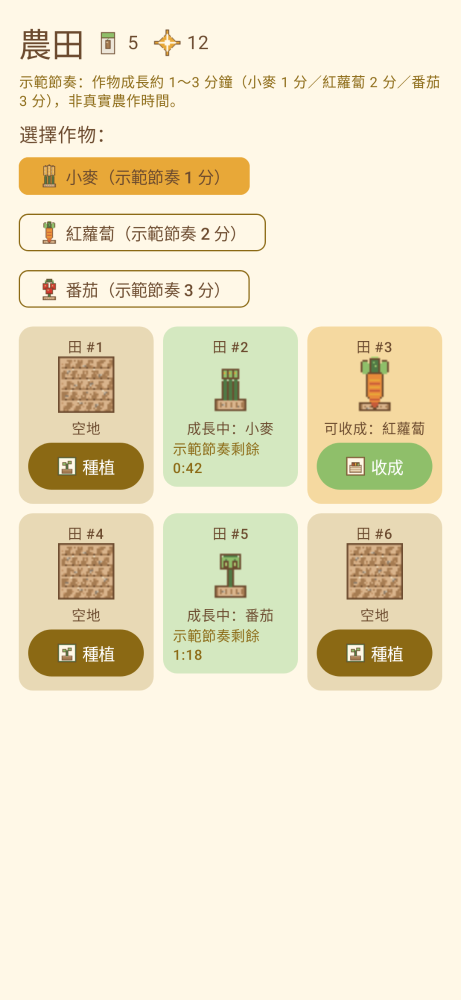
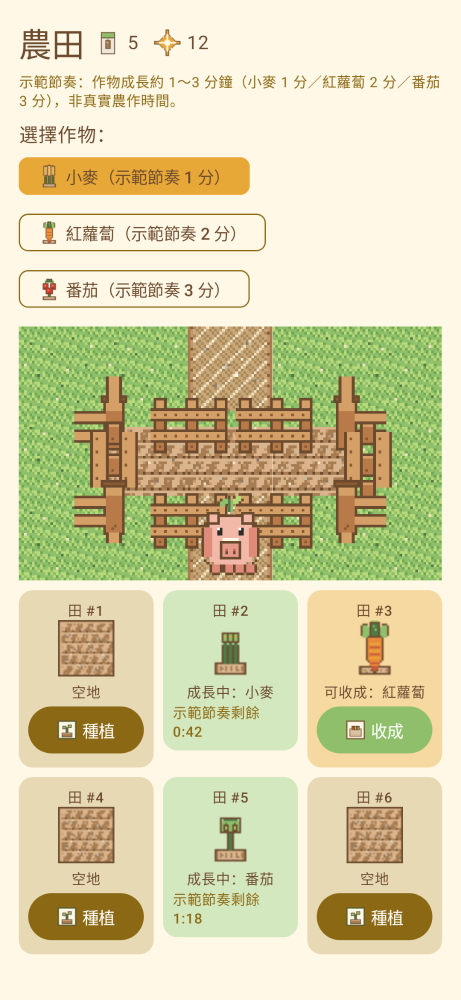
Wire phase-2 farm scene into FarmScreen with Sprout pet overlay.
Add FarmSceneLayer (Canvas tiles/fence + tap-to-happy 小芽) under crop plots; regenerate farm Paparazzi screenshot. Reward rules unchanged.

diff --git a/app/src/main/java/com/farmledger/app/ui/screens/farm/FarmScreen.kt b/app/src/main/java/com/farmledger/app/ui/screens/farm/FarmScreen.kt
@@ -121,71 +121,76 @@ fun FarmScreen(vm: AppViewModel) {
             }
         }
         Spacer(Modifier.height(8.dp))
-        LazyVerticalGrid(
-            columns = GridCells.Fixed(3),
-            modifier = Modifier.weight(1f),
-            verticalArrangement = Arrangement.spacedBy(8.dp),
-            horizontalArrangement = Arrangement.spacedBy(8.dp)
-        ) {
-            items(plots, key = { it.index }) { plot ->
-                val cardColor = when (plot.state) {
-                    PlotState.EMPTY -> Color(0xFFE8D9B5)
-                    PlotState.GROWING -> Color(0xFFD4E8C0)
-                    PlotState.READY -> Color(0xFFF5D9A0)
-                }
-                val iconRes = when (plot.state) {
-                    PlotState.EMPTY -> R.drawable.tile_soil_empty
-                    PlotState.GROWING -> plot.crop?.let { cropGrowRes(it) } ?: R.drawable.tile_soil_empty
-                    PlotState.READY -> plot.crop?.let { cropReadyRes(it) } ?: R.drawable.tile_soil_empty
-                }
-                Card(
-                    Modifier.fillMaxWidth(),
-                    colors = CardDefaults.cardColors(containerColor = cardColor)
-                ) {
-                    Column(Modifier.padding(8.dp), horizontalAlignment = Alignment.CenterHorizontally) {
-                        Text("田 #${plot.index + 1}", style = MaterialTheme.typography.labelMedium, color = FarmText)
-                        Image(
-                            painterResource(iconRes),
-                            contentDescription = plot.state.name,
-                            modifier = Modifier.size(48.dp),
-                            contentScale = ContentScale.FillBounds
-                        )
-                        Spacer(Modifier.height(4.dp))
-                        Text(
+        // Phase-2 farm scene (tiles + fence + 小芽) under the crop-plot UI block.
+        Column(Modifier.weight(1f).fillMaxWidth()) {
+            FarmSceneLayer(modifier = Modifier.fillMaxWidth(), interactive = true)
+            Spacer(Modifier.height(8.dp))
+            LazyVerticalGrid(
+                columns = GridCells.Fixed(3),
+                modifier = Modifier.weight(1f).fillMaxWidth(),
+                verticalArrangement = Arrangement.spacedBy(8.dp),
+                horizontalArrangement = Arrangement.spacedBy(8.dp)
+            ) {
+                items(plots, key = { it.index }) { plot ->
+                    val cardColor = when (plot.state) {
+                        PlotState.EMPTY -> Color(0xFFE8D9B5)
+                        PlotState.GROWING -> Color(0xFFD4E8C0)
+                        PlotState.READY -> Color(0xFFF5D9A0)
+                    }
+                    val iconRes = when (plot.state) {
+                        PlotState.EMPTY -> R.drawable.tile_soil_empty
+                        PlotState.GROWING -> plot.crop?.let { cropGrowRes(it) } ?: R.drawable.tile_soil_empty
+                        PlotState.READY -> plot.crop?.let { cropReadyRes(it) } ?: R.drawable.tile_soil_empty
+                    }
+                    Card(
+                        Modifier.fillMaxWidth(),
+                        colors = CardDefaults.cardColors(containerColor = cardColor)
+                    ) {
+                        Column(Modifier.padding(8.dp), horizontalAlignment = Alignment.CenterHorizontally) {
+                            Text("田 #${plot.index + 1}", style = MaterialTheme.typography.labelMedium, color = FarmText)
+                            Image(
+                                painterResource(iconRes),
+                                contentDescription = plot.state.name,
+                                modifier = Modifier.size(48.dp),
+                                contentScale = ContentScale.FillBounds
+                            )
+                            Spacer(Modifier.height(4.dp))
+                            Text(
+                                when (plot.state) {
+                                    PlotState.EMPTY -> "空地"
+                                    PlotState.GROWING -> "成長中：${plot.crop?.let { FarmLogic.cropZh(it) }}"
+                                    PlotState.READY -> "可收成：${plot.crop?.let { FarmLogic.cropZh(it) }}"
+                                },
+                                style = MaterialTheme.typography.bodySmall,
+                                fontWeight = FontWeight.Medium,
+                                color = FarmText
+                            )
                             when (plot.state) {
-                                PlotState.EMPTY -> "空地"
-                                PlotState.GROWING -> "成長中：${plot.crop?.let { FarmLogic.cropZh(it) }}"
-                                PlotState.READY -> "可收成：${plot.crop?.let { FarmLogic.cropZh(it) }}"
-                            },
-                            style = MaterialTheme.typography.bodySmall,
-                            fontWeight = FontWeight.Medium,
-                            color = FarmText
-                        )
-                        when (plot.state) {
-                            PlotState.EMPTY -> Button(
-                                onClick = { vm.plant(plot.index, selectedCrop) },
-                                colors = ButtonDefaults.buttonColors(containerColor = FarmSoil, contentColor = Color.White)
-                            ) {
-                                Image(painterResource(R.drawable.btn_plant), null, Modifier.size(18.dp), contentScale = ContentScale.FillBounds)
-                                Spacer(Modifier.size(4.dp))
-                                Text("種植")
-                            }
-                            PlotState.READY -> Button(
-                                onClick = { vm.harvest(plot.index) },
-                                colors = ButtonDefaults.buttonColors(containerColor = FarmGrowth, contentColor = Color.White)
-                            ) {
-                                Image(painterResource(R.drawable.btn_harvest), null, Modifier.size(18.dp), contentScale = ContentScale.FillBounds)
-                                Spacer(Modifier.size(4.dp))
-                                Text("收成")
-                            }
-                            PlotState.GROWING -> {
-                                val remainMs = ((plot.readyAtEpochMs ?: nowMs) - nowMs).coerceAtLeast(0L)
-                                Text(
-                                    "示範節奏剩餘 ${formatRemain(remainMs)}",
-                                    style = MaterialTheme.typography.bodySmall,
-                                    color = FarmSoil,
-                                    fontWeight = FontWeight.Medium
-                                )
+                                PlotState.EMPTY -> Button(
+                                    onClick = { vm.plant(plot.index, selectedCrop) },
+                                    colors = ButtonDefaults.buttonColors(containerColor = FarmSoil, contentColor = Color.White)
+                                ) {
+                                    Image(painterResource(R.drawable.btn_plant), null, Modifier.size(18.dp), contentScale = ContentScale.FillBounds)
+                                    Spacer(Modifier.size(4.dp))
+                                    Text("種植")
+                                }
+                                PlotState.READY -> Button(
+                                    onClick = { vm.harvest(plot.index) },
+                                    colors = ButtonDefaults.buttonColors(containerColor = FarmGrowth, contentColor = Color.White)
+                                ) {
+                                    Image(painterResource(R.drawable.btn_harvest), null, Modifier.size(18.dp), contentScale = ContentScale.FillBounds)
+                                    Spacer(Modifier.size(4.dp))
+                                    Text("收成")
+                                }
+                                PlotState.GROWING -> {
+                                    val remainMs = ((plot.readyAtEpochMs ?: nowMs) - nowMs).coerceAtLeast(0L)
+                                    Text(
+                                        "示範節奏剩餘 ${formatRemain(remainMs)}",
+                                        style = MaterialTheme.typography.bodySmall,
+                                        color = FarmSoil,
+                                        fontWeight = FontWeight.Medium
+                                    )
+                                }
                             }
                         }
                     }

diff --git a/app/src/main/java/com/farmledger/app/ui/screens/farm/FarmSceneLayer.kt b/app/src/main/java/com/farmledger/app/ui/screens/farm/FarmSceneLayer.kt
@@ -1,0 +1,190 @@
+package com.farmledger.app.ui.screens.farm
+
+import androidx.compose.foundation.Canvas
+import androidx.compose.foundation.Image
+import androidx.compose.foundation.clickable
+import androidx.compose.foundation.interaction.MutableInteractionSource
+import androidx.compose.foundation.layout.BoxWithConstraints
+import androidx.compose.foundation.layout.aspectRatio
+import androidx.compose.foundation.layout.fillMaxSize
+import androidx.compose.foundation.layout.fillMaxWidth
+import androidx.compose.foundation.layout.offset
+import androidx.compose.foundation.layout.size
+import androidx.compose.runtime.Composable
+import androidx.compose.runtime.LaunchedEffect
+import androidx.compose.runtime.getValue
+import androidx.compose.runtime.mutableLongStateOf
+import androidx.compose.runtime.remember
+import androidx.compose.runtime.setValue
+import androidx.compose.ui.Alignment
+import androidx.compose.ui.Modifier
+import androidx.compose.ui.graphics.FilterQuality
+import androidx.compose.ui.graphics.ImageBitmap
+import androidx.compose.ui.graphics.drawscope.DrawScope
+import androidx.compose.ui.layout.ContentScale
+import androidx.compose.ui.res.imageResource
+import androidx.compose.ui.semantics.contentDescription
+import androidx.compose.ui.semantics.semantics
+import androidx.compose.ui.unit.IntOffset
+import androidx.compose.ui.unit.IntSize
+import com.farmledger.app.R
+import kotlinx.coroutines.delay
+
+/** Logical scene size matching docs/farm_scene_preview.png (5×3 of 32px tiles). */
+private const val SceneW = 160f
+private const val SceneH = 96f
+private const val Tile = 32f
+private const val HappyMs = 1_400L
+
+/**
+ * Warm top-down farm ground + fence border + Sprout（小芽）pet overlay.
+ * Pure UI — does not touch reward / pet domain rules.
+ */
+@Composable
+fun FarmSceneLayer(
+    modifier: Modifier = Modifier,
+    interactive: Boolean = true,
+) {
+    var happyUntilMs by remember { mutableLongStateOf(0L) }
+    var nowMs by remember { mutableLongStateOf(System.currentTimeMillis()) }
+    val isHappy = nowMs < happyUntilMs
+
+    LaunchedEffect(happyUntilMs) {
+        if (happyUntilMs <= 0L) return@LaunchedEffect
+        while (System.currentTimeMillis() < happyUntilMs) {
+            nowMs = System.currentTimeMillis()
+            delay(40)
+        }
+        nowMs = System.currentTimeMillis()
+    }
+
+    val grass = ImageBitmap.imageResource(R.drawable.tile_grass)
+    val dirt = ImageBitmap.imageResource(R.drawable.tile_dirt)
+    val path = ImageBitmap.imageResource(R.drawable.tile_path)
+    val edgeN = ImageBitmap.imageResource(R.drawable.tile_dirt_edge_n)
+    val edgeW = ImageBitmap.imageResource(R.drawable.tile_dirt_edge_w)
+    val edgeE = ImageBitmap.imageResource(R.drawable.tile_dirt_edge_e)
+    val fenceHBmp = ImageBitmap.imageResource(R.drawable.fence_h)
+    val fenceVBmp = ImageBitmap.imageResource(R.drawable.fence_v)
+    val cornerNw = ImageBitmap.imageResource(R.drawable.fence_corner_nw)
+    val cornerNe = ImageBitmap.imageResource(R.drawable.fence_corner_ne)
+    val cornerSw = ImageBitmap.imageResource(R.drawable.fence_corner_sw)
+    val cornerSe = ImageBitmap.imageResource(R.drawable.fence_corner_se)
+    val petIdle = ImageBitmap.imageResource(R.drawable.pet_idle)
+    val petHappy = ImageBitmap.imageResource(R.drawable.pet_happy)
+    val heart = ImageBitmap.imageResource(R.drawable.fx_heart)
+
+    BoxWithConstraints(
+        modifier
+            .fillMaxWidth()
+            .aspectRatio(SceneW / SceneH)
+            .semantics { contentDescription = "農田場景" }
+    ) {
+        val petSize = maxWidth * (Tile / SceneW)
+
+        Canvas(Modifier.fillMaxSize()) {
+            val sx = size.width / SceneW
+            val sy = size.height / SceneH
+            fun cell(tx: Int, ty: Int, bmp: ImageBitmap) {
+                drawPixelTile(bmp, tx * Tile * sx, ty * Tile * sy, Tile * sx, Tile * sy)
+            }
+
+            // Layer 0 — grass fill (5×3)
+            for (ty in 0 until 3) {
+                for (tx in 0 until 5) {
+                    cell(tx, ty, grass)
+                }
+            }
+            // Path column
+            cell(2, 0, path)
+            cell(2, 2, path)
+            // Dirt bed with side edges
+            cell(1, 1, edgeW)
+            cell(2, 1, dirt)
+            cell(3, 1, edgeE)
+            // Soft north edge blend on dirt row (tiles 1–3)
+            for (tx in 1..3) {
+                drawPixelTile(
+                    edgeN,
+                    tx * Tile * sx,
+                    1 * Tile * sy,
+                    Tile * sx,
+                    Tile * sy
+                )
+            }
+
+            // Layer 1 — fence around dirt bed (preview coordinates)
+            drawPixelTile(cornerNw, 20f * sx, 18f * sy, Tile * sx, Tile * sy)
+            drawPixelTile(fenceHBmp, 48f * sx, 18f * sy, Tile * sx, Tile * sy)
+            drawPixelTile(fenceHBmp, 80f * sx, 18f * sy, Tile * sx, Tile * sy)
+            drawPixelTile(cornerNe, 108f * sx, 18f * sy, Tile * sx, Tile * sy)
+            drawPixelTile(fenceVBmp, 20f * sx, 34f * sy, Tile * sx, Tile * sy)
+            drawPixelTile(fenceVBmp, 116f * sx, 34f * sy, Tile * sx, Tile * sy)
+            drawPixelTile(cornerSw, 20f * sx, 50f * sy, Tile * sx, Tile * sy)
+            drawPixelTile(fenceHBmp, 48f * sx, 54f * sy, Tile * sx, Tile * sy)
+            drawPixelTile(fenceHBmp, 80f * sx, 54f * sy, Tile * sx, Tile * sy)
+            drawPixelTile(cornerSe, 108f * sx, 50f * sy, Tile * sx, Tile * sy)
+        }
+
+        // Layer 2 — Sprout（小芽）+ heart FX (Compose Image for tap hit-testing)
+        val petMod = Modifier
+            .align(Alignment.TopStart)
+            .offset(
+                x = maxWidth * (64f / SceneW),
+                y = maxHeight * (62f / SceneH)
+            )
+            .size(petSize)
+            .then(
+                if (interactive) {
+                    Modifier.clickable(
+                        interactionSource = remember { MutableInteractionSource() },
+                        indication = null
+                    ) {
+                        happyUntilMs = System.currentTimeMillis() + HappyMs
+                        nowMs = System.currentTimeMillis()
+                    }
+                } else {
+                    Modifier
+                }
+            )
+
+        Image(
+            bitmap = if (isHappy) petHappy else petIdle,
+            contentDescription = "小芽",
+            modifier = petMod,
+            contentScale = ContentScale.FillBounds,
+            filterQuality = FilterQuality.None
+        )
+
+        if (isHappy) {
+            Image(
+                bitmap = heart,
+                contentDescription = "心心",
+                modifier = Modifier
+                    .align(Alignment.TopStart)
+                    .offset(
+                        x = maxWidth * (92f / SceneW),
+                        y = maxHeight * (50f / SceneH)
+                    )
+                    .size(petSize),
+                contentScale = ContentScale.FillBounds,
+                filterQuality = FilterQuality.None
+            )
+        }
+    }
+}
+
+private fun DrawScope.drawPixelTile(
+    image: ImageBitmap,
+    x: Float,
+    y: Float,
+    w: Float,
+    h: Float,
+) {
+    drawImage(
+        image = image,
+        dstOffset = IntOffset(x.toInt(), y.toInt()),
+        dstSize = IntSize(w.toInt().coerceAtLeast(1), h.toInt().coerceAtLeast(1)),
+        filterQuality = FilterQuality.None
+    )
+}

diff --git a/app/src/test/java/com/farmledger/app/ui/screenshot/ScreenScreenshotTest.kt b/app/src/test/java/com/farmledger/app/ui/screenshot/ScreenScreenshotTest.kt
@@ -46,6 +46,7 @@ import androidx.compose.ui.unit.sp
 import app.cash.paparazzi.DeviceConfig
 import app.cash.paparazzi.Paparazzi
 import com.farmledger.app.R
+import com.farmledger.app.ui.screens.farm.FarmSceneLayer
 import com.farmledger.app.domain.model.RewardRules
 import com.farmledger.app.ui.theme.FarmBg
 import com.farmledger.app.ui.theme.FarmExpense
@@ -470,6 +471,8 @@ private fun FarmFixture() {
                 )
             }
         }
+        Spacer(Modifier.height(8.dp))
+        FarmSceneLayer(modifier = Modifier.fillMaxWidth(), interactive = false)
         Spacer(Modifier.height(8.dp))
         LazyVerticalGrid(
             columns = GridCells.Fixed(3),
